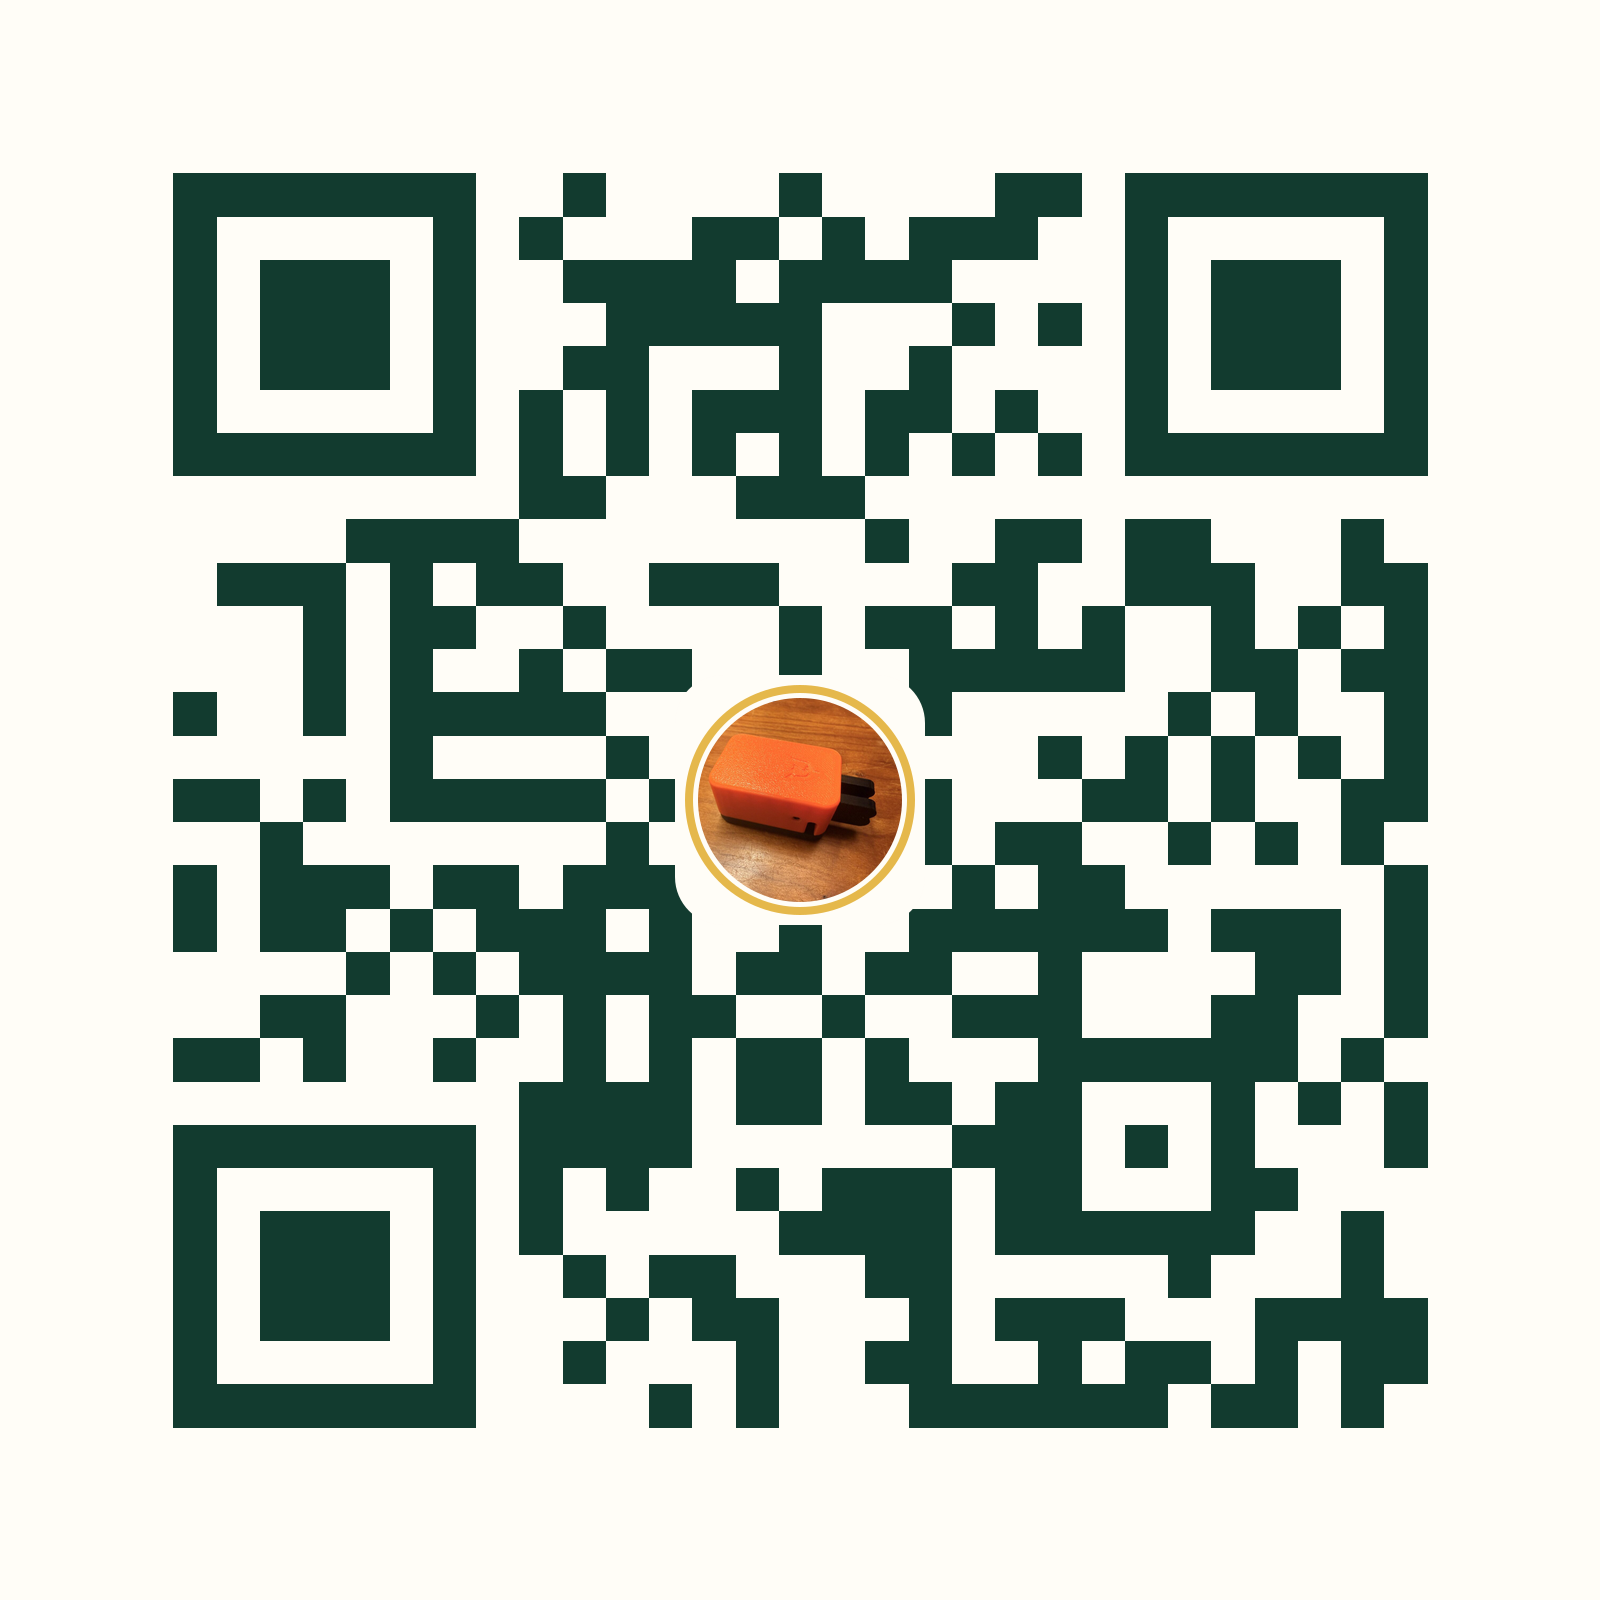
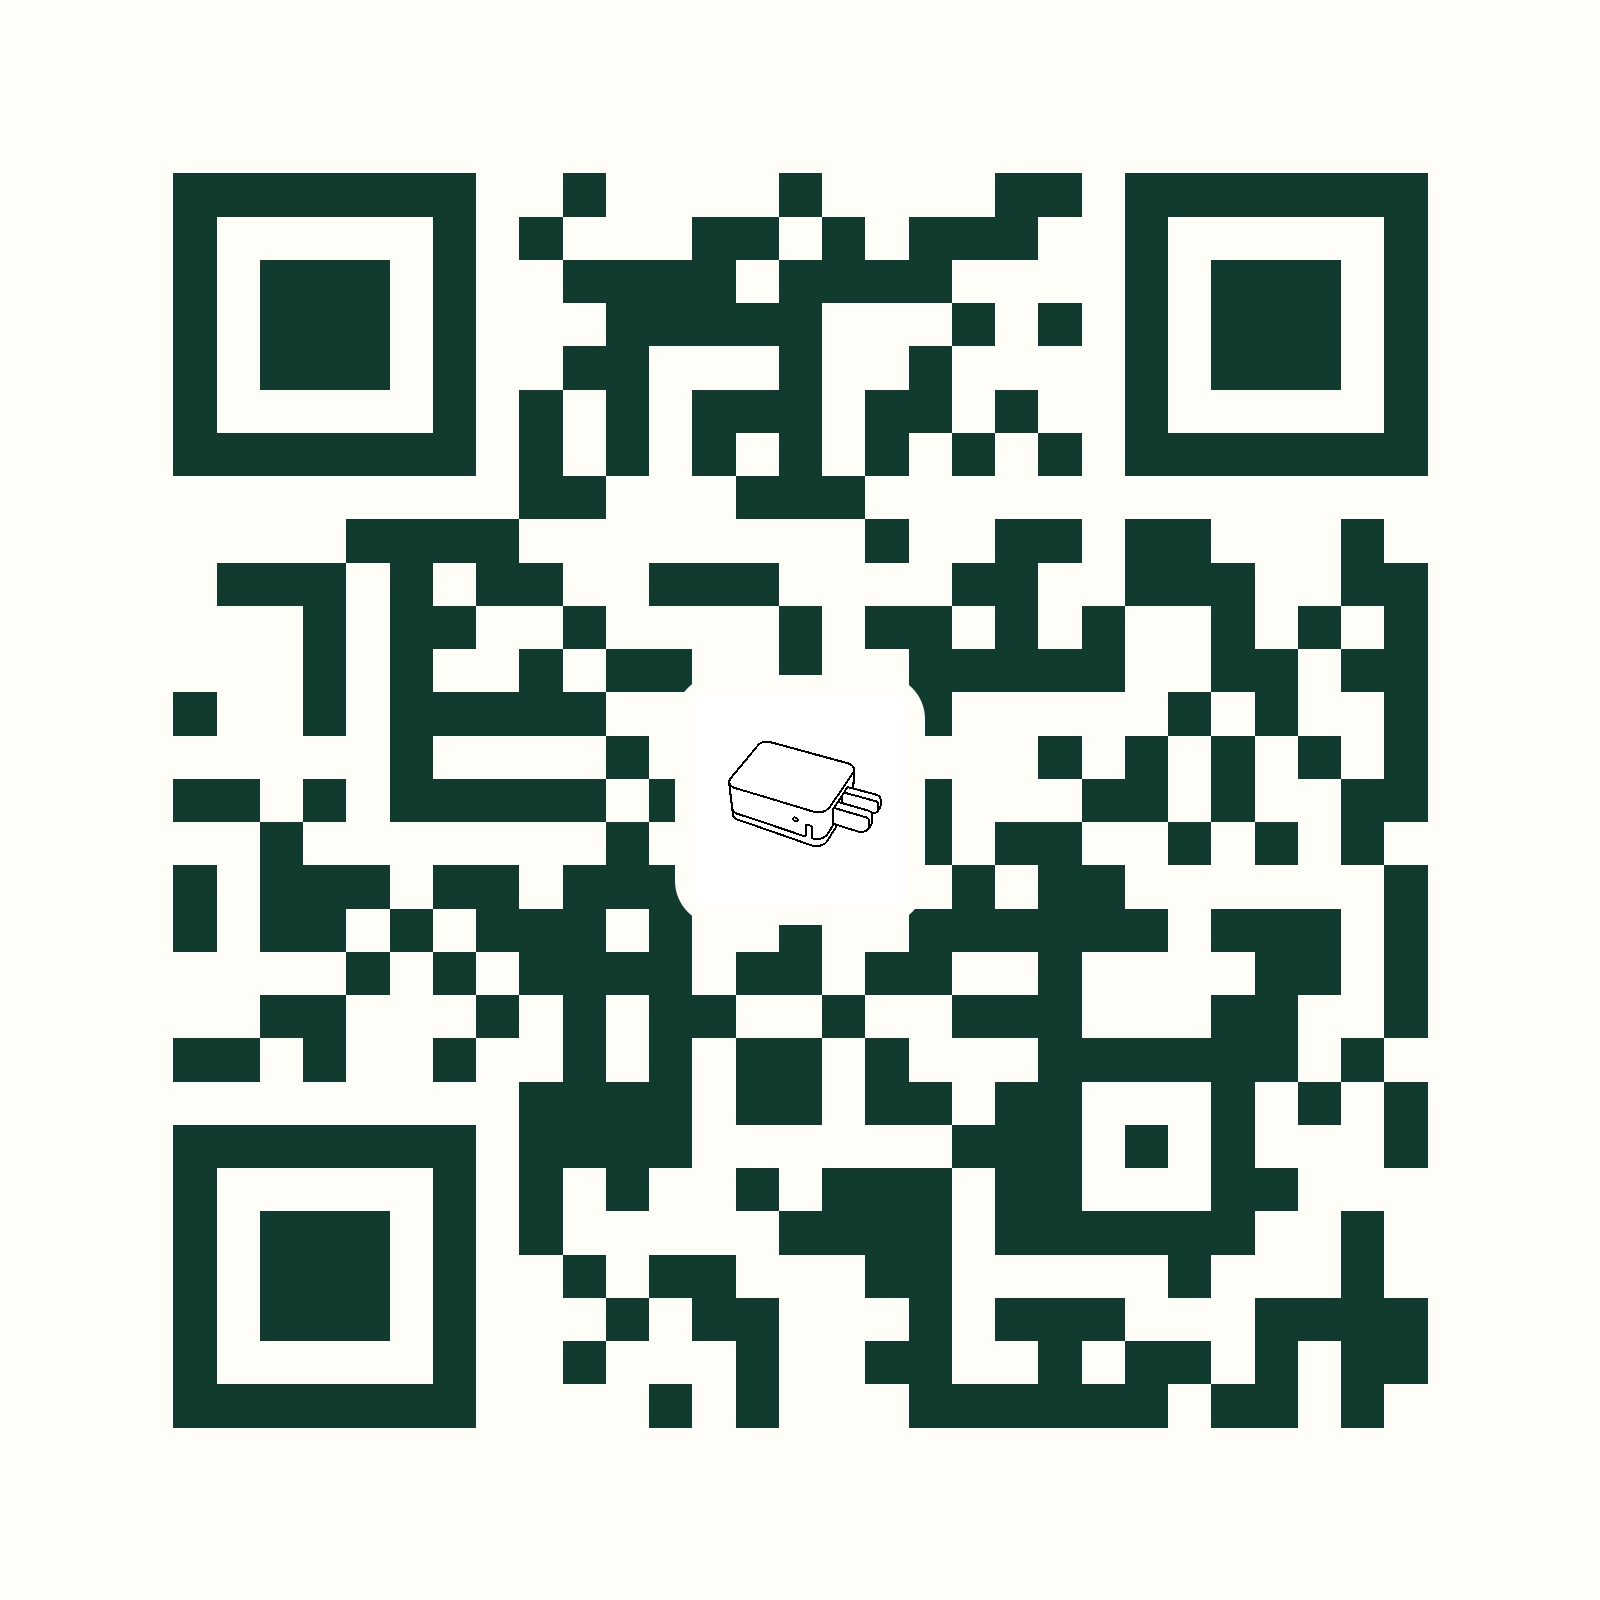
Refine HamXposition CW talk resources
Correct the learning and on-air references so attendees reach the
intended tools after the talk. Replace the photographic QR centerpiece
with a high-contrast paddle mark that remains identifiable when small.

Changed region(s): [[0.4062, 0.4062, 0.5938, 0.5938]]

diff --git a/src/content/notes/2026-07-31-morse-code-for-the-technician-resources.md b/src/content/notes/2026-07-31-morse-code-for-the-technician-resources.md
@@ -37,9 +37,10 @@ to keep using.
 
 ## Practice that fits your day
 
-- [Morse Mania for iPhone and iPad](https://apps.apple.com/us/app/morse-mania-learn-morse-code/id1511042196)
-  and [Morse Mania for Android](https://play.google.com/store/apps/details?id=net.countrymania.morse)
-  provide focused, interactive character practice.
+- [Morse Mania](https://morse.countrymania.net/) provides focused, interactive
+  character practice on
+  [iPhone and iPad](https://apps.apple.com/us/app/morse-mania-learn-morse-code/id1511042196)
+  and [Android](https://play.google.com/store/apps/details?id=net.countrymania.morse).
 - [Morse Code Ninja](https://www.morsecode.ninja/learn/) provides incremental
   audio, podcast, and video practice. Its audio lessons fit especially well
   into a commute or walk.
@@ -72,6 +73,8 @@ parts.
 
 - [Parks on the Air](https://parksontheair.com/) gives a new operator a short,
   repeated, and predictable exchange to listen for.
+- [CW POTA: A Field Manual](https://potacw.guide/) walks through the exchange
+  line by line and includes a customizable activator and hunter cheat sheet.
 - [My first all-CW POTA activation](https://qrper.com/2026/04/n1rwj-my-first-cw-pota-activation-dont-wait-to-try-it/)
   is the field report behind the “do not wait” story in the talk.
 - [The K8CES Zippy Paddle guide](/notes/2026-07-29-building-k8ces-zippy-paddle/)
